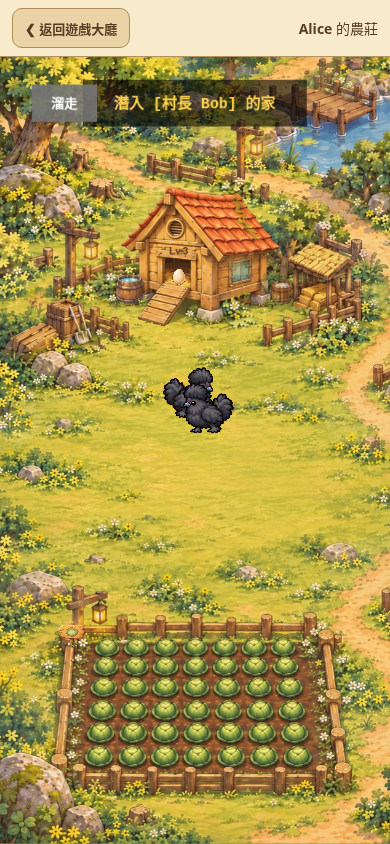
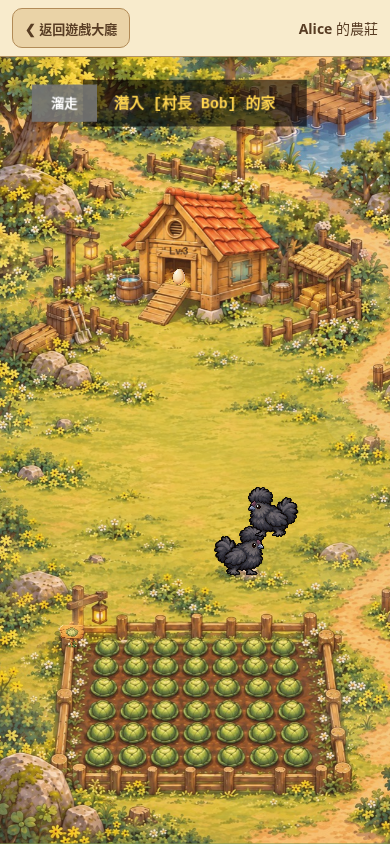
feat: show hen loading transition when entering villages

Changed region(s): [[0.5538, 0.5545, 0.7692, 0.7085], [0.4, 0.4313, 0.6154, 0.5237]]

diff --git a/js/farm/LobbyScene.js b/js/farm/LobbyScene.js
@@ -1,3 +1,4 @@
+import { farmLoading } from './loading-ui.js';
 import { mountHalloween } from './halloween.js';
 import { preloadSceneAssets, finishSceneAssets, ensureAssets, ALL_ASSETS } from './assets.js';
 import { onSceneExit } from './scene-cleanup.js';
@@ -24,6 +25,8 @@ export default class LobbyScene extends Phaser.Scene {
         this.requestId = (this.requestId || 0) + 1;
         this.entering = false;
         this.entryAttempt = null;
+        this.entryLoading = false;
+        this.entryLoadingHandoff = false;
         this.mode = 'own';
         this.page = 1;
         this.groups = [];
@@ -46,8 +49,15 @@ export default class LobbyScene extends Phaser.Scene {
             if (Math.abs(dx) > 65 && Math.abs(dy) < 60) this.showPublic();
             this.swipeStart = null;
         });
-        onSceneExit(this, () => { this.lobbyToken = null; this.requestId++; this.searchResizeObserver.disconnect(); this.searchRoot.remove(); });
+        onSceneExit(this, () => { if (!this.entryLoadingHandoff) this.finishEntryLoading(); this.entryLoading = false; this.lobbyToken = null; this.requestId++; this.searchResizeObserver.disconnect(); this.searchRoot.remove(); });
         this.loadNeighbors();
+    }
+
+    // 共用啟動時的母雞動畫；只結束本場景發起的載入，避免關閉其他流程的遮罩。
+    finishEntryLoading() {
+        if (!this.entryLoading) return;
+        this.entryLoading = false;
+        farmLoading.complete(true);
     }
 
     button(x, y, text, callback, width = 150, container = null) {
@@ -142,6 +152,7 @@ export default class LobbyScene extends Phaser.Scene {
 
     async showPublic() {
         if (!this.publicEnabled) return;
+        this.finishEntryLoading();
         const request = ++this.requestId;
         this.entering = false;
         this.mode = 'public'; this.page = 1; this.hideSuggestions();
@@ -159,6 +170,7 @@ export default class LobbyScene extends Phaser.Scene {
 
     renderPublic() {
         if (!this.scene.isActive()) return;
+        this.finishEntryLoading();
         this.mode = 'public'; this.syncNavigation(); this.titleText.setText('公開村落一覽'); this.content.removeAll(true); this.loadingText.setVisible(false);
         const filtered = filterVillages(this.groups, this.searchInput.value);
         const pages = Math.max(1, Math.ceil(filtered.length / 10)); this.page = Math.min(this.page, pages);
@@ -178,6 +190,7 @@ export default class LobbyScene extends Phaser.Scene {
     }
 
     async showVillage(groupId) {
+        this.finishEntryLoading();
         const request = ++this.requestId;
         this.entering = false;
         this.hideSuggestions(); this.mode = groupId === CURRENT_GROUP_ID ? 'own' : 'village'; this.syncNavigation(); this.page = 1;
@@ -191,6 +204,7 @@ export default class LobbyScene extends Phaser.Scene {
     }
 
     renderFarms() {
+        this.finishEntryLoading();
         this.entering = false; this.entryAttempt = null; this.loadingText.setVisible(false);
         this.content.removeAll(true);
         const pages = Math.max(1, Math.ceil(this.farms.length / 9)); this.page = Math.min(this.page, pages);
@@ -207,7 +221,9 @@ export default class LobbyScene extends Phaser.Scene {
                 let transitioning = false;
                 const active = () => this.scene.isActive() && this.lobbyToken === token && this.entryAttempt === attempt && request === this.requestId && page === this.page;
                 house.setTint(0xffdf91);
-                this.loadingText.setText('正在載入村落…').setDepth(40).setVisible(true);
+                this.loadingText.setVisible(false);
+                this.entryLoading = true; this.entryLoadingHandoff = false;
+                farmLoading.begin('正在載入村落…');
                 try {
                     const groupId = group.id;
                     // 原本進場後的素材與驗證工作移到列表載入階段；不重複下載已完成的紋理。
@@ -220,9 +236,12 @@ export default class LobbyScene extends Phaser.Scene {
                     ]);
                     if (!active()) return;
                     if (!snapshot.exists() || !snapshot.data().farm) throw new Error('這位成員尚未建立雞舍。');
+                    farmLoading.progress(70, '正在準備村落…');
                     const result = backend.FARM_BACKEND_ENABLED ? await preparation.prepareVisitEntry({ targetGroupId: groupId, targetAccountId: member.accountId, ownFarm: this.registry.get('myFarmData') }, { command: backend.farmCommand, active }) : null;
                     if (!active()) return;
                     const preparedEntry = result ? { ...result, sourceGroupId: CURRENT_GROUP_ID, sourceAccountId: CURRENT_ACCOUNT_ID, group: verifiedGroup, farm: snapshot.data().farm } : null;
+                    farmLoading.progress(95, '即將進入村落…');
+                    this.entryLoadingHandoff = true;
                     transitioning = true;
                     this.scene.start('VisitScene', { targetGroupId: groupId, targetGroupName: verifiedGroup.name, targetAccountId: member.accountId, targetName: member.name, preparedEntry });
                 } catch (error) {
@@ -230,6 +249,7 @@ export default class LobbyScene extends Phaser.Scene {
                     if (active()) this.showFloatingText(195, 185, error.message || '村落載入失敗，請再點雞舍重試。', '#FFCDD2');
                 } finally {
                     if (this.lobbyToken === token && this.entryAttempt === attempt && !transitioning) {
+                        this.finishEntryLoading();
                         const ownsLoading = active();
                         this.entering = false; this.entryAttempt = null;
                         if (ownsLoading && this.loadingText.active) this.loadingText.setVisible(false);

diff --git a/docs/FARM_VISIT_PREPARATION.md b/docs/FARM_VISIT_PREPARATION.md
@@ -2,7 +2,7 @@
 
 ## 調整後流程
 
-點選玩家雞舍 → 列表顯示「正在載入村落…」與選取回饋 → 既有素材、群組權限、目標存檔與伺服器怪物判定完成 → 才切入拜訪場景。
+點選玩家雞舍 → 顯示既有母雞走路過場動畫與「正在載入村落…」 → 既有素材、群組權限、目標存檔與伺服器怪物判定完成 → 才切入拜訪場景。
 
 `LobbyScene` 將原本的資料讀取與 VisitScene 全素材預載平行處理，素材完成後才呼叫既有進場／里程碑 API，避免把怪物倒數耗在下載素材上。未新增 Firebase API 或寫入類型，也沒有在載入階段收蛋、偷蛋或增加任務進度。
 
@@ -41,7 +41,7 @@ COOP_CLEAN_TESTS=1 PHASER_FIXTURE=/tmp/nexus-phaser-3.60.0.js node tests/farm-pr
 STEAL_FLOW_TESTS=1 PHASER_FIXTURE=/tmp/nexus-phaser-3.60.0.js node tests/farm-private-backend-browser.cjs
 ```
 
-需先啟動 8032 靜態伺服器並提供 Phaser fixture。沒有修改或部署 Functions、Rules、索引或正式資料。本次只需發布前端；與先前完成的打掃視窗變更一起保留在工作目錄，尚未推送 GitHub。
+需先啟動 8032 靜態伺服器並提供 Phaser fixture。沒有修改或部署 Functions、Rules、索引或正式資料。本次只需發布前端；前次進場優化與打掃視窗已於 `8520535` 推送；本次母雞過場調整尚未推送。
 
 ## 修改檔案
 
@@ -50,3 +50,9 @@ STEAL_FLOW_TESTS=1 PHASER_FIXTURE=/tmp/nexus-phaser-3.60.0.js node tests/farm-pr
 - `js/farm/VisitScene.js`：一次性交接資料與結果，保留背景監聽與直接進場備援。
 - `tests/farm-visit-entry.test.mjs`、`tests/farm-private-backend-browser.cjs`。
 - 本報告及 `docs/verification/visit-preparation/`。
+
+## 母雞載入過場追加驗證
+
+沿用 `loading-ui.js` 與已載入的母雞 Atlas，沒有新增動畫素材或固定等待時間。資料與素材完成後顯示 70%，進場驗證完成後顯示 95%，場景就緒即關閉；這些是完成階段比例，不是網路下載百分比。離開、切換選擇與載入失敗會清除本次過場，成功時由既有進場完成流程收起。
+
+本次重新執行 3 項進場單元測試與 `VISIT_PRELOAD_TESTS=1` 真實 Phaser 瀏覽器流程，均通過；額外檢查母雞 canvas 可見、慢請求期間遮罩持續顯示、到達及取消後遮罩消失。未重跑上次完整 353 項測試。
